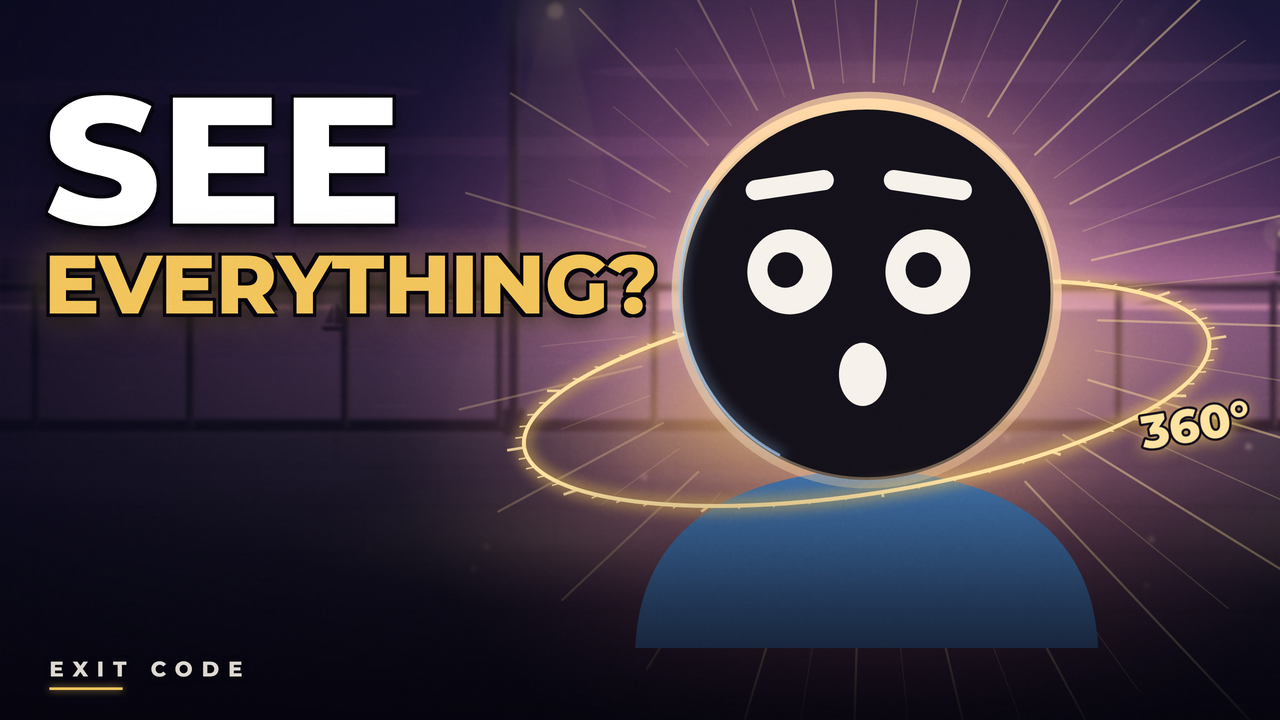
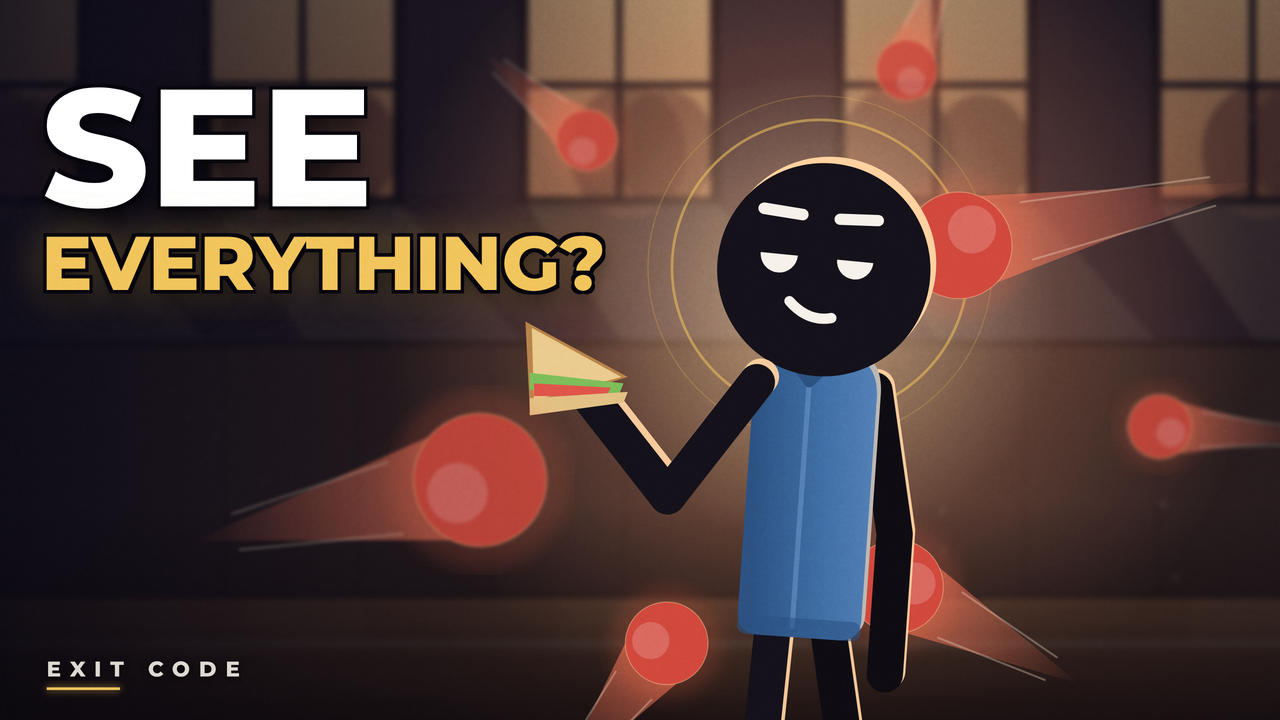
Final thumbnail as a story scene: dodgeballs from every direction (incl. behind his head), Leo unbothered with his sandwich, eye contact; mobile-feed and no-text readability checked
Claude-Session: https://claude.ai/code/session_01PtWP9fX8hfzrtQZnQWfJyK

diff --git a/exit-code-360/src/thumbnail/ThumbnailScene.tsx b/exit-code-360/src/thumbnail/ThumbnailScene.tsx
@@ -1,0 +1,152 @@
+// EXIT CODE 360 — FINAL thumbnail (1280×720) as a story scene, not a graphic:
+// in the film's gym, dodgeballs come at Leo from every direction at once — including from
+// behind — and he handles all of them without looking at a single one: deadpan eye contact with
+// the viewer, sandwich in one hand, a ball caught behind his head with the other. The balls'
+// arrangement *is* the 360° circle; nothing is explained.
+import React from "react";
+import { AbsoluteFill, Img, staticFile } from "remotion";
+import { Figure } from "../characters/Figure";
+import { LEO } from "../characters/cast";
+import type { Pose } from "../characters/types";
+import { STAND } from "../characters/types";
+import { Sandwich } from "../props/Props";
+import { Ball, GymSet } from "../env/Gym";
+import { type Cam } from "../lib/camera";
+import { C } from "../style/palette";
+import { FONT, loadFonts } from "../style/fonts";
+
+loadFonts();
+
+const OUT = "0 0 4px #07050D, 5px 5px 0 #07050D, -5px 5px 0 #07050D, 5px -5px 0 #07050D, -5px -5px 0 #07050D, 0 12px 34px rgba(0,0,0,0.7)";
+
+// Leo (design space 1920×1080)
+const LX = 1200;
+const SC = 3.2;
+const FEET = 1445; // feet below frame: framed head to waist
+const HEAD = { x: LX + 30, y: FEET - 326 * SC }; // head centre ≈ (1230, 402)
+
+// each ball: position, size, which way it came from (trail angle, deg: 0 = from the right),
+// depth (behind Leo = partly hidden by him) and focus (blur = far from the focal plane)
+type B = { x: number; y: number; r: number; from: number; behind?: boolean; blur?: number; trail?: number };
+const BALLS: B[] = [
+  { x: 1438, y: 368, r: 80, from: -12, behind: true, trail: 1.3 }, // whizzing past just behind his head (partly hidden by it)
+  { x: 1345, y: 880, r: 70, from: 28, behind: true, trail: 1.0 }, // behind his hip
+  { x: 1740, y: 640, r: 48, from: 4, behind: true, blur: 3, trail: 1.1 }, // far right, still coming
+  { x: 1360, y: 105, r: 46, from: -70, behind: true, blur: 3, trail: 1.0 }, // far, from above and behind
+  { x: 880, y: 210, r: 46, from: -140, behind: true, blur: 3, trail: 1.0 }, // far, high left
+  { x: 720, y: 720, r: 100, from: 168, blur: 2.2, trail: 1.0 }, // close to camera, front left
+  { x: 1000, y: 965, r: 62, from: 128, trail: 1.0 }, // low, under his arm
+];
+
+const Trail: React.FC<{ x: number; y: number; ang: number; r: number; k: number; id: string }> = ({ x, y, ang, r, k, id }) => {
+  // tapered streak pointing back where the ball came from
+  const ux = Math.cos(ang);
+  const uy = Math.sin(ang);
+  const len = r * 4.4 * k;
+  const px = -uy;
+  const py = ux;
+  const d = `M${x + px * r * 0.92},${y + py * r * 0.92} L${x + ux * len},${y + uy * len} L${x - px * r * 0.92},${y - py * r * 0.92} Z`;
+  return (
+    <g>
+      <defs>
+        <linearGradient id={id} x1={x} y1={y} x2={x + ux * len} y2={y + uy * len} gradientUnits="userSpaceOnUse">
+          <stop offset="0%" stopColor="#FF7A5C" stopOpacity={0.7} />
+          <stop offset="100%" stopColor="#FF7A5C" stopOpacity={0} />
+        </linearGradient>
+      </defs>
+      <path d={d} fill={`url(#${id})`} />
+      {[-0.55, 0.55].map((o, i) => (
+        <line key={i} x1={x + ux * r * 1.3 + px * r * o} y1={y + uy * r * 1.3 + py * r * o} x2={x + ux * len * 0.85 + px * r * o * 0.5} y2={y + uy * len * 0.85 + py * r * o * 0.5} stroke="#FFE3D0" strokeWidth={3} opacity={0.32} strokeLinecap="round" />
+      ))}
+    </g>
+  );
+};
+
+const BallFx: React.FC<{ b: B; i: number }> = ({ b, i }) => {
+  const ang = (b.from * Math.PI) / 180;
+  return (
+    <g filter={b.blur ? `url(#tb${Math.round(b.blur * 10)})` : undefined} opacity={b.blur ? 0.85 : 1}>
+      <Trail x={b.x} y={b.y} ang={ang} r={b.r} k={b.trail ?? 1} id={`tr${i}`} />
+      <circle cx={b.x} cy={b.y} r={b.r * 1.35} fill="#FF6A4A" opacity={0.18} filter="url(#tglow)" />
+      <Ball x={b.x} y={b.y} r={b.r} rot={i * 40} />
+    </g>
+  );
+};
+
+export const ThumbnailScene: React.FC = () => {
+  const cam: Cam = { x: 20 - 960, y: 40, zoom: 1.25 }; // scoreboard out of frame
+  const pose: Pose = {
+    ...STAND,
+    lean: -4,
+    headTilt: -4,
+    // near arm: sandwich held up in front, unbothered
+    shN: 38,
+    elN: 104,
+    // far arm: hanging loose — he isn't even bracing
+    shF: -8,
+    elF: 12,
+    hipN: 6,
+    knN: 4,
+    hipF: -8,
+    knF: 6,
+  };
+  return (
+    <AbsoluteFill style={{ background: "#000", overflow: "hidden" }}>
+      <div style={{ position: "absolute", left: 0, top: 0, width: 1920, height: 1080, transformOrigin: "0 0", transform: "scale(0.6666667)" }}>
+        {/* the film's gym: warm high windows, light shafts, hardwood — defocused behind the action */}
+        <GymSet cam={cam} t={1} blur={5} clock="03:59" />
+        <AbsoluteFill style={{ background: "linear-gradient(90deg, rgba(8,8,22,0.9) 0%, rgba(8,8,22,0.6) 34%, rgba(8,8,22,0.3) 56%, rgba(8,8,22,0.55) 100%)" }} />
+        <AbsoluteFill style={{ background: `radial-gradient(circle at ${HEAD.x}px ${HEAD.y + 60}px, rgba(255,205,150,0.7) 0%, rgba(255,150,100,0.22) 26%, rgba(0,0,0,0) 48%)`, mixBlendMode: "screen" }} />
+        <AbsoluteFill style={{ background: "linear-gradient(0deg, rgba(8,5,10,0.75) 0%, rgba(8,5,10,0) 30%)" }} />
+        <svg width={1920} height={1080} style={{ position: "absolute", inset: 0 }}>
+          <defs>
+            <filter id="tglow" x="-50%" y="-50%" width="200%" height="200%">
+              <feGaussianBlur stdDeviation="14" />
+            </filter>
+            {[22, 30].map((k) => (
+              <filter key={k} id={`tb${k}`} x="-60%" y="-60%" width="220%" height="220%">
+                <feGaussianBlur stdDeviation={k / 10} />
+              </filter>
+            ))}
+          </defs>
+          {/* the film's sense ring: faint, the way it flickers when he notices */}
+          <circle cx={HEAD.x} cy={HEAD.y} r={222} fill="none" stroke={C.gold} strokeWidth={4} opacity={0.55} />
+          <circle cx={HEAD.x} cy={HEAD.y} r={258} fill="none" stroke={C.gold} strokeWidth={2} opacity={0.22} />
+          {BALLS.filter((b) => b.behind).map((b) => (
+            <BallFx key={b.x} b={b} i={BALLS.indexOf(b)} />
+          ))}
+          <Figure
+            spec={LEO}
+            id="thsleo"
+            x={LX}
+            y={FEET}
+            scale={SC}
+            turn={0.18}
+            facing={-1}
+            pose={pose}
+            face={{ eye: "lid", lookX: 0, lookY: 0.1, mouth: "smirk", curve: 0.3, brow: -0.15, browShow: 1, browY: 0.15 }}
+            light={{ x: 0.6, y: -0.8 }}
+            rim="#FFD2A0"
+            rimAmt={1}
+            holdNear={<Sandwich s={1} />}
+            holdUpright
+          />
+          {BALLS.filter((b) => !b.behind).map((b) => (
+            <BallFx key={b.x} b={b} i={BALLS.indexOf(b)} />
+          ))}
+        </svg>
+        <div style={{ position: "absolute", left: 62, top: 110, fontFamily: FONT, fontWeight: 800, lineHeight: 0.88, letterSpacing: "-0.015em" }}>
+          <div style={{ fontSize: 250, color: "#FFFFFF", textShadow: OUT }}>SEE</div>
+          <div style={{ fontSize: 114, color: C.gold, textShadow: `${OUT}, 0 0 60px rgba(242,197,92,0.5)`, marginTop: 14 }}>EVERYTHING?</div>
+        </div>
+        <div style={{ position: "absolute", left: 70, top: 984, fontFamily: FONT, fontWeight: 800, fontSize: 32, letterSpacing: "0.42em", color: "rgba(246,241,234,0.9)", textShadow: "0 2px 10px rgba(0,0,0,0.8)" }}>
+          EXIT CODE
+          <div style={{ marginTop: 8, width: 110, height: 4, background: C.gold, boxShadow: "0 0 12px rgba(242,197,92,0.8)" }} />
+        </div>
+        <AbsoluteFill style={{ mixBlendMode: "overlay", opacity: 0.07 }}>
+          <Img src={staticFile("textures/grain_6.png")} style={{ width: 1920, height: 1080 }} />
+        </AbsoluteFill>
+      </div>
+    </AbsoluteFill>
+  );
+};

diff --git a/exit-code-360/src/Root.tsx b/exit-code-360/src/Root.tsx
@@ -10,6 +10,7 @@ import { Mystery, MYSTERY_FRAMES } from "./teaser/Mystery";
 import { Thumbnail } from "./thumbnail/Thumbnail";
 import { ThumbnailV2 } from "./thumbnail/ThumbnailV2";
 import { ThumbnailFinal } from "./thumbnail/ThumbnailFinal";
+import { ThumbnailScene } from "./thumbnail/ThumbnailScene";
 
 export const RemotionRoot: React.FC = () => (
   <>
@@ -54,6 +55,7 @@ export const RemotionRoot: React.FC = () => (
     <Still id="ThumbnailV2Flat" component={ThumbnailV2} width={1280} height={720} defaultProps={{ ring: "flat" as const, expr: "awe" as const }} />
     <Still id="ThumbnailV2Smirk" component={ThumbnailV2} width={1280} height={720} defaultProps={{ ring: "orbit" as const, expr: "smirk" as const }} />
     <Still id="ThumbnailFinal" component={ThumbnailFinal} width={1280} height={720} />
+    <Still id="ThumbnailScene" component={ThumbnailScene} width={1280} height={720} />
     <Still id="SheetLeo" component={CharacterSheet} width={1920} height={1080} defaultProps={{ who: "leo" as const }} />
     <Still id="SheetMia" component={CharacterSheet} width={1920} height={1080} defaultProps={{ who: "mia" as const }} />
     <Still id="SheetBlack" component={CharacterSheet} width={1920} height={1080} defaultProps={{ who: "black" as const }} />

diff --git a/exit-code-360/README.md b/exit-code-360/README.md
@@ -50,7 +50,7 @@ renders/
   EXIT_CODE_360_POC_v2.mp4
   EXIT_CODE_360_FULL.mp4     (generated; delivered directly, not committed)
 thumbnail/
-  EXIT_CODE_360_THUMBNAIL_FINAL.png  FINAL approved 1280×720 thumbnail (Still "ThumbnailFinal" at 2× → Lanczos to 1280×720)
+  EXIT_CODE_360_THUMBNAIL_FINAL.png  FINAL 1280×720 thumbnail — story scene (Still "ThumbnailScene" at 2× → Lanczos to 1280×720)
   EXIT_CODE_360_THUMBNAIL.png     v2 redesign (Still "ThumbnailV2")
   EXIT_CODE_360_THUMBNAIL_v1.png  first version (Still "Thumbnail")
 assets/
